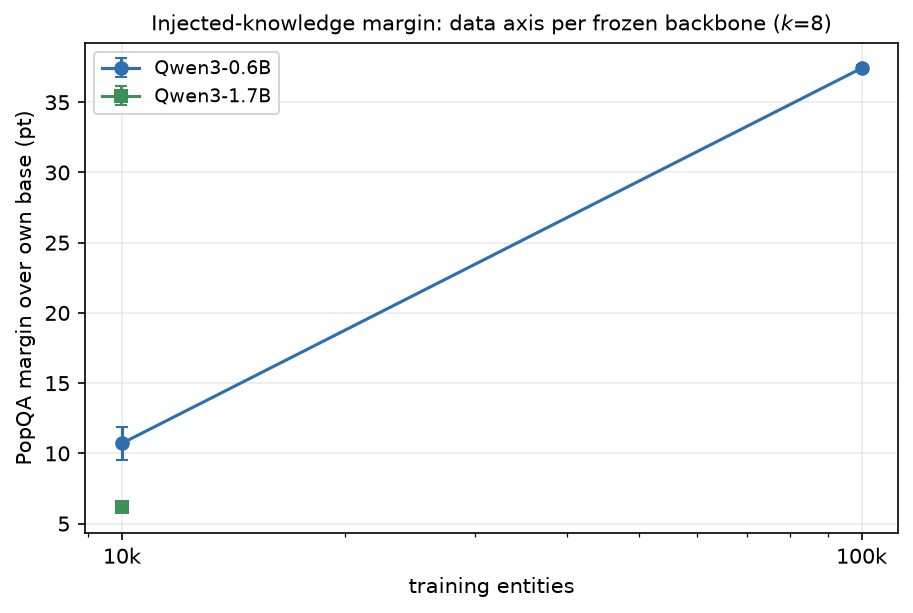
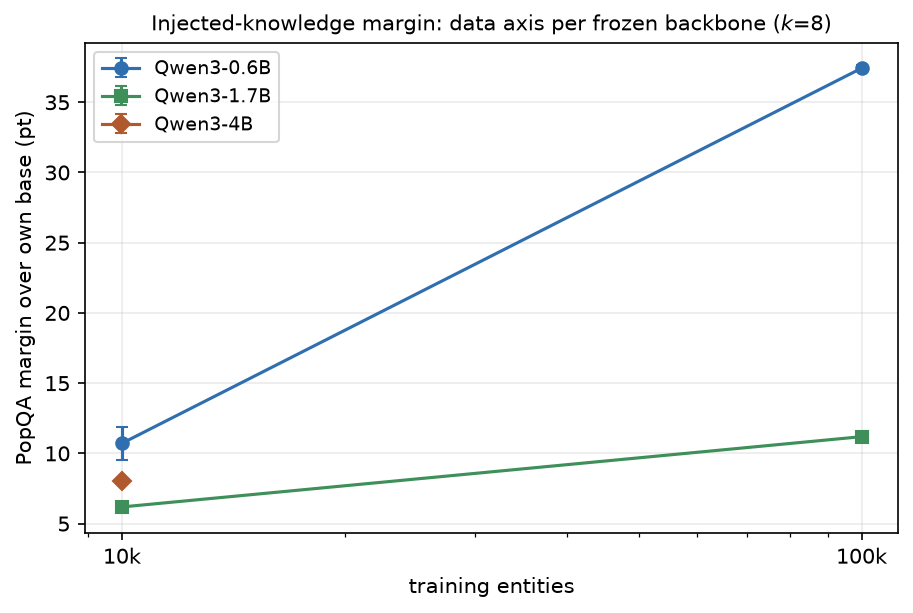
Paper: fill model-axis and discussion from landed grid cells; add transfer figure
Replaces the two results \todo markers with the measured story: 1.7B margin is
half the 0.6B's at both corpus scales, the 10x data step multiplies its margin
1.8x vs 3.5x (steerability over ceiling; headroom near-constant), 1.7B held-out
flat across the data step, and the 4B 10k cell sits above the 1.7B (+8.0 vs
+6.2) -- non-monotone model axis, curriculum confound noted. New Table 5 (grid
with explicit seed counts: 1.7B x 100k and 4B x 10k at n=1, refresh pending) and
gap-closure transfer figure (home vs MetaQA) merged into the transfer float.
Abstract, contribution 2, limitations updated to match.

Claude-Session: https://claude.ai/code/session_01UNefkRAg5SSdSiFHusGje6

diff --git a/v2/paper/main.tex b/v2/paper/main.tex
@@ -54,7 +54,9 @@
   the learned compression carries the effect. Accuracy rises monotonically in $k$ through
   $k{=}32$ on matched curves at two corpus scales, exposing a three-way trade between token
   budget, training data, and model size: unseen-entity accuracy grows $2.3\times$ when training
-  entities grow $10\times$, and additional tokens partially substitute for additional data.
+  entities grow $10\times$, additional tokens partially substitute for additional data, and
+  across the Qwen3 family the injected margin shrinks as the frozen model grows --- with the
+  same data step buying the 1.7B model half the relative gain it buys the 0.6B.
   Counterfactual edge-swap probes show the model genuinely \emph{reads} the injected graph,
   increasingly so with $k$, while off-topic behavior is preserved (median next-token KL
   $\le$0.08 nats). The encoder also transfers \emph{zero-shot} to an unseen knowledge graph:
@@ -100,8 +102,9 @@ baselines (question-aware retrieval, LLM-written budgeted summaries) and an untr
 control (\S\ref{sec:efficiency}).
 \textbf{(2)}~Matched token-budget curves at two corpus scales showing monotone gains through
 $k{=}32$ and a three-way trade structure: data scales injection up ($2.3\times$ for $10\times$
-entities), tokens partially substitute for data, and we measure the frozen-model-size axis
-across the Qwen3 family (\S\ref{sec:scaling}).
+entities), tokens partially substitute for data, and along the frozen-model-size axis (Qwen3
+0.6B/1.7B/4B) the injected margin shrinks --- more data does not close the model-size gap
+(\S\ref{sec:scaling}).
 \textbf{(3)}~Causal evidence that the model reads the injected graph --- counterfactual
 edge-swap following that scales from $\sim$1\% ($k{=}1$) to $\sim$33\% ($k{=}32$) --- alongside
 capability preservation and prompt robustness (\S\ref{sec:probes}), and \emph{zero-shot
@@ -346,18 +349,48 @@ transmit.
   \centering
   \includegraphics[width=0.62\linewidth]{figures/fig_grid.png}
   \caption{The data $\times$ model grid ($k{=}8$): \popqa{} margin over each frozen backbone's
-  own base accuracy. \todo{1.7B and 4B cells land as training completes; figure regenerates
-  from the same script.}}
+  own base accuracy (cells and seed counts in Table~\ref{tab:grid}; the 4B$\times$100k cell is
+  pending). The 0.6B data slope is steep; the 1.7B slope is shallow --- more data does not
+  close the model-size gap.}
   \label{fig:grid}
 \end{figure}
 
+\begin{table}[t]
+  \caption{The data $\times$ model grid at $k{=}8$: full-\popqa{} accuracy and margin over each
+  frozen backbone's own base (mean$\pm$std over seeds). Corpora are teacher-relative
+  (\S\ref{sec:method}), so each backbone trains on its own curriculum of near-identical size.}
+  \label{tab:grid}
+  \centering
+  \small
+  \begin{tabular}{llllll}
+    \toprule
+    backbone & base & 10k entities & 100k entities & data gain & seeds\\
+    \midrule
+    Qwen3-0.6B & .103 & $.210{\pm}.012$ (+10.7) & $.477{\pm}.002$ (+37.4) & $3.5\times$ (margin) & 6 / 3\\
+    Qwen3-1.7B & .141 & $.203{\pm}.003$ (+6.2) & $.253$ (+11.2) & $1.8\times$ (margin) & 3 / 1\\
+    Qwen3-4B & .154 & $.234$ (+8.0) & pending & --- & 1 / ---\\
+    \bottomrule
+  \end{tabular}
+\end{table}
+
 \paragraph{Model axis.} We repeat the data transect across the Qwen3 family (0.6B, 1.7B, 4B),
-each backbone with its own teacher-relative corpus and brackets (Figure~\ref{fig:grid}).
-\todo{Pending cells: 1.7B $\times$ \{10k, 100k\} and 4B $\times$ \{10k, 100k\} at $k{=}8$
-(and $k{=}16$ at 1.7B), 3 seeds each --- training in progress; this subsection's claims will
-be finalized from those cells.} The question the grid answers: does a larger frozen model ---
-which knows more of \popqa{} parametrically --- gain less from injection at fixed data, and if
-so, does more data close the gap?
+each backbone with its own teacher-relative corpus and brackets (Figure~\ref{fig:grid},
+Table~\ref{tab:grid}). The question the grid answers: does a larger frozen model --- which
+knows more of \popqa{} parametrically --- gain less from injection at fixed data, and if so,
+does more data close the gap? The answer to the first question is yes, and to the second, no:
+the 1.7B's injected margin is roughly half the 0.6B's at \emph{both} corpus scales, and the
+$10\times$ data step that multiplies the 0.6B margin $3.5\times$ multiplies the 1.7B margin
+only $1.8\times$ --- at 100k entities the 1.7B (+11.2\,pt) barely reaches what the 0.6B
+already had at 10k (+10.7\,pt). Headroom does not explain this: base accuracy moves only
+$0.10 \to 0.15$ across the family while the RAG ceiling stays at $\sim$0.97, yet relative gap
+closure at 100k falls from 44\% (0.6B) to 14\% (1.7B). Two further observations sharpen the
+picture. First, the 1.7B's \emph{held-out} accuracy is flat across the data step
+($0.397 \to 0.403$) where the 0.6B's rises ($0.416 \to 0.545$): the encoder trains equally
+well on the bigger backbone; what shrinks is specifically the unseen-entity payoff. Second,
+the axis is not monotone --- the 4B's 10k margin (+8.0\,pt) sits \emph{above} the 1.7B's
+(+6.2\,pt, seed spread $\pm$0.3), a partial recovery consistent with larger models being
+better consumers of injected context, though the teacher-relative curricula (a stronger base
+tiers a different question mix into training) remain a candidate confound.
 
 \subsection{Does it read the graph? Causal probes}
 \label{sec:probes}
@@ -396,22 +429,36 @@ with a standard deviation of $\le$1.1\,pt across 3 seeds.
 \label{sec:transfer}
 
 \begin{table}[t]
-  \caption{Zero-shot transfer to MetaQA-1hop (full test set, $n{=}9{,}947$; Wilson 95\% CIs).
-  The Wikidata-trained checkpoints of Table~\ref{tab:kfamily} (frozen Qwen3-0.6B, 100k corpus;
-  one seed per $k$) are evaluated unchanged on a movie KG they have never seen --- no MetaQA
-  training, no adaptation, no shared entities or relations. RAG is budgeted verbalization of
-  the same neighborhoods (no answer guarantee).}
+  \caption{Zero-shot transfer to MetaQA-1hop (full test set, $n{=}9{,}947$; Wilson CIs
+  $\le \pm 1$\,pt everywhere, shown in the right panel). The Wikidata-trained checkpoints of
+  Table~\ref{tab:kfamily} (frozen Qwen3-0.6B, 100k corpus; one seed per $k$) are evaluated
+  unchanged on a movie KG they have never seen --- no MetaQA training, no adaptation, no
+  shared entities or relations. RAG is budgeted verbalization of the same neighborhoods (no
+  answer guarantee). Right: relative base$\to$RAG gap closure vs.\ $k$, home graph (3 seeds)
+  against zero-shot MetaQA --- transfer keeps the home curve's shape at roughly half the
+  effect.}
   \label{tab:transfer}
   \centering
-  \small
-  \begin{tabular}{lcccccc}
-    \toprule
-    & base & $k{=}1$ & $k{=}8$ & $k{=}16$ & $k{=}32$ & RAG\\
-    \midrule
-    accuracy & .058 & .161 & .235 & .244 & \textbf{.335} & .921\\
-    95\% CI & [.053, .062] & [.153, .168] & [.227, .244] & [.235, .252] & [.325, .344] & [.916, .926]\\
-    \bottomrule
-  \end{tabular}
+  \begin{minipage}[c]{0.44\linewidth}
+    \centering
+    \small
+    \begin{tabular}{lc}
+      \toprule
+      condition & accuracy\\
+      \midrule
+      base (floor) & .058\\
+      $k{=}1$ & .161\\
+      $k{=}8$ & .235\\
+      $k{=}16$ & .244\\
+      $k{=}32$ & \textbf{.335}\\
+      RAG (reference) & .921\\
+      \bottomrule
+    \end{tabular}
+  \end{minipage}\hfill
+  \begin{minipage}[c]{0.53\linewidth}
+    \centering
+    \includegraphics[width=\linewidth]{figures/fig_transfer.png}
+  \end{minipage}
 \end{table}
 
 The featurizer consumes nothing but the frozen model's embeddings of label strings, so a
@@ -429,10 +476,12 @@ are scored as-is.
 Injection transfers (Table~\ref{tab:transfer}). At $k{=}32$ the concept condition reaches
 $0.335$ against the frozen base's $0.058$ --- $+27.7$\,pt zero-shot, closing 32\% of the
 base$\to$RAG gap on a graph the encoder has never seen (item-paired McNemar against base:
-$p<10^{-200}$ at every $k$). The curve remains monotone in $k$, and the shape mirrors the
-home-graph curve: the $k{=}16 \to k{=}32$ step alone adds $9.1$\,pt ($p<10^{-114}$).
-Measured as relative gap closure, zero-shot transfer retains roughly half to two-thirds of
-the home-graph effect (21\% vs.\ 44\% at $k{=}8$; 32\% vs.\ 51\% at $k{=}32$). The RAG
+$p<10^{-200}$ at every $k$). The curve remains monotone in $k$, and its shape mirrors the
+home-graph curve (Table~\ref{tab:transfer}, right): the $k{=}16 \to k{=}32$ step alone adds
+$9.1$\,pt ($p<10^{-114}$). Measured as relative gap closure, zero-shot transfer retains
+roughly half to two-thirds of the home-graph effect (21\% vs.\ 44\% at $k{=}8$; 32\% vs.\
+51\% at $k{=}32$), and at $k{=}1$ the two settings are indistinguishable (12\% both) --- the
+Wikidata-specific component of the representation only appears as capacity grows. The RAG
 reference ($0.921$) confirms the gap that remains is a property of the transferred encoder,
 not of the frozen model's ability to answer in this domain. Together with the probes of
 \S\ref{sec:probes}, this is direct evidence for the inductive claim: the encoder learned a
@@ -472,20 +521,26 @@ heterogeneity; per-step re-sampling of teacher distractors is a null at our cont
 \paragraph{What governs the channel's value.} The results organize around a three-way trade.
 Token budget buys accuracy monotonically but with diminishing returns; training data buys
 unseen-entity generalization multiplicatively and had not saturated; and the two interact ---
-tokens substitute for data. The model-size axis (Figure~\ref{fig:grid}) determines whether
-these gains persist as the frozen model itself knows more; the two live interpretations --- a
-\emph{ceiling effect} (bigger bases leave less headroom on the benchmark) versus a
+tokens substitute for data. On the model-size axis, two interpretations made opposite
+predictions: a \emph{ceiling effect} (bigger bases leave less headroom on the benchmark)
+implies more data recovers proportionally more of the remaining gap, while a
 \emph{steerability effect} (bigger frozen models need more training signal per unit of
-behavioral change from $k$ soft tokens) --- make opposite predictions about whether more data
-closes the gap, which the grid's 100k cells test directly. \todo{Finalize once 1.7B/4B cells
-land.}
+behavioral change from $k$ soft tokens) implies the data gain itself shrinks with model size.
+The grid's 100k column decides for steerability: headroom is nearly constant across the
+family, yet the $10\times$ data step buys the 1.7B half the relative improvement it buys the
+0.6B (\S\ref{sec:scaling}). The 4B's partial recovery at 10k keeps the axis from being a
+simple decay and makes the missing 4B$\times$100k cell the decisive next measurement: if the
+4B also scales with data better than the 1.7B, the channel's value turns back up exactly
+where deployment would want it.
 
 \paragraph{Limitations.} Training uses a single knowledge graph (Wikidata) and language
 (English); cross-graph evaluation is zero-shot on one 1-hop benchmark (MetaQA, one seed per
 $k$), and transfer \emph{with} in-domain training is untested; entity-valued relations only
 (no literals); evaluation centered on \popqa{} and same-generator held-out questions;
 faithfulness probes cover single-fact questions; corpora are teacher-relative by design, so
-cross-backbone comparisons involve each model's own curriculum; augmentation's effect is
+cross-backbone comparisons involve each model's own curriculum; the newest grid cells
+(1.7B$\times$100k, 4B$\times$10k) currently carry fewer than three seeds
+(Table~\ref{tab:grid}) and the 4B$\times$100k cell is pending; augmentation's effect is
 heterogeneous across seeds. Knowledge is injected for a single identified entity mention per
 prompt; multi-entity composition is untested.
 

diff --git a/v2/scripts/cf2_figures.py b/v2/scripts/cf2_figures.py
@@ -171,3 +171,53 @@ ax2.grid(True, alpha=0.25)
 fig3.tight_layout()
 fig3.savefig(OUT / "fig_probes.png", dpi=150, bbox_inches="tight")
 print("wrote fig_probes.png")
+
+# ------------------------------------------- Fig 6: cross-graph transfer (relative gap closure)
+TRANSFER = ROOT / "data/analysis/transfer"
+
+
+def closure(c: float, b: float, r: float) -> float:
+    return 100 * (c - b) / (r - b)
+
+
+home_x, home_y, home_e = [], [], []
+for k in KS:
+    vals = []
+    for name in curve_names("100k", k):
+        p = EF / name / "summary.json"
+        if not p.exists():
+            continue
+        d = json.loads(p.read_text())["popqa"]
+        vals.append(closure(d["concept"]["acc"], d["base"]["acc"], d["rag"]["acc"]))
+    if vals:
+        home_x.append(k)
+        home_y.append(statistics.mean(vals))
+        home_e.append(statistics.stdev(vals) if len(vals) > 1 else 0.0)
+mq_x, mq_y, mq_e = [], [], []
+for k in KS:
+    p = TRANSFER / f"pc_k{k}_best__metaqa_1hop_full" / "summary.json"
+    if not p.exists():
+        continue
+    d = json.loads(p.read_text())
+    c, b, r = d["concept"], d["base"], d["rag"]
+    mq_x.append(k)
+    mq_y.append(closure(c["acc"], b["acc"], r["acc"]))
+    # Single checkpoint: propagate the concept Wilson CI through the closure (brackets fixed).
+    half = (c["ci95"][1] - c["ci95"][0]) / 2
+    mq_e.append(100 * half / (r["acc"] - b["acc"]))
+fig4, ax = plt.subplots(figsize=(6.2, 4.0))
+ax.errorbar(home_x, home_y, yerr=home_e, fmt="o-", color=BLUE, capsize=3,
+            label="Wikidata (home): PopQA, unseen entities")
+ax.errorbar(mq_x, mq_y, yerr=mq_e, fmt="D--", color=ORANGE, capsize=3,
+            label="MetaQA (zero-shot): unseen graph")
+ax.set_xscale("log", base=2)
+ax.set_xticks(KS, [str(k) for k in KS])
+ax.set_xlabel("concept tokens $k$")
+ax.set_ylabel("base$\\rightarrow$RAG gap closed (%)")
+ax.set_title("Same encoder, two graphs: transfer keeps the shape\nof the $k$-curve at "
+             "roughly half the effect", fontsize=10)
+ax.grid(True, alpha=0.25)
+ax.legend(fontsize=9, loc="upper left")
+fig4.tight_layout()
+fig4.savefig(OUT / "fig_transfer.png", dpi=150, bbox_inches="tight")
+print("wrote fig_transfer.png")
